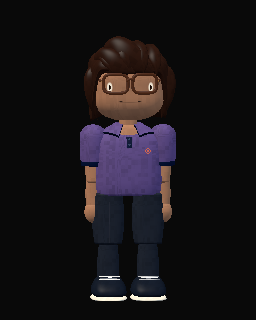
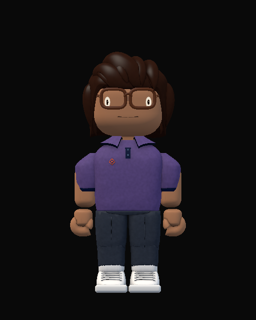
thumbs

Changed region(s): [[0.25, 0.0938, 0.75, 0.9375], [0.5938, 0.75, 0.625, 0.7812]]

diff --git a/starter-set/README.md b/starter-set/README.md
@@ -23,6 +23,12 @@ editable afterward. Changing one recipe never changes another recipe.
 - `artwork/`: authored curves, wearable construction, and curly-hair sculpting.
 - `presets/thumbnails/`: full-character previews rendered by the engine.
 
+These thumbnails are part of the local catalog, not Blender preview output.
+After an art change, regenerate fixed front captures and run `morph build`.
+Studio now loads the relative PNGs when launched with `--morph-catalog
+catalog.json`, installing them into the same texture cache used by published
+catalogs so the left library cards stay in sync with the runtime characters.
+
 For example, `presets/person-17.json` combines the Broad Jaw base, Floppy Hair,
 Short Sleeve Collared Shirt, Slacks, and Sparkles shoes. Its `parameters` hold
 skin and clothing colors; `face` selects an expression. Change those references
